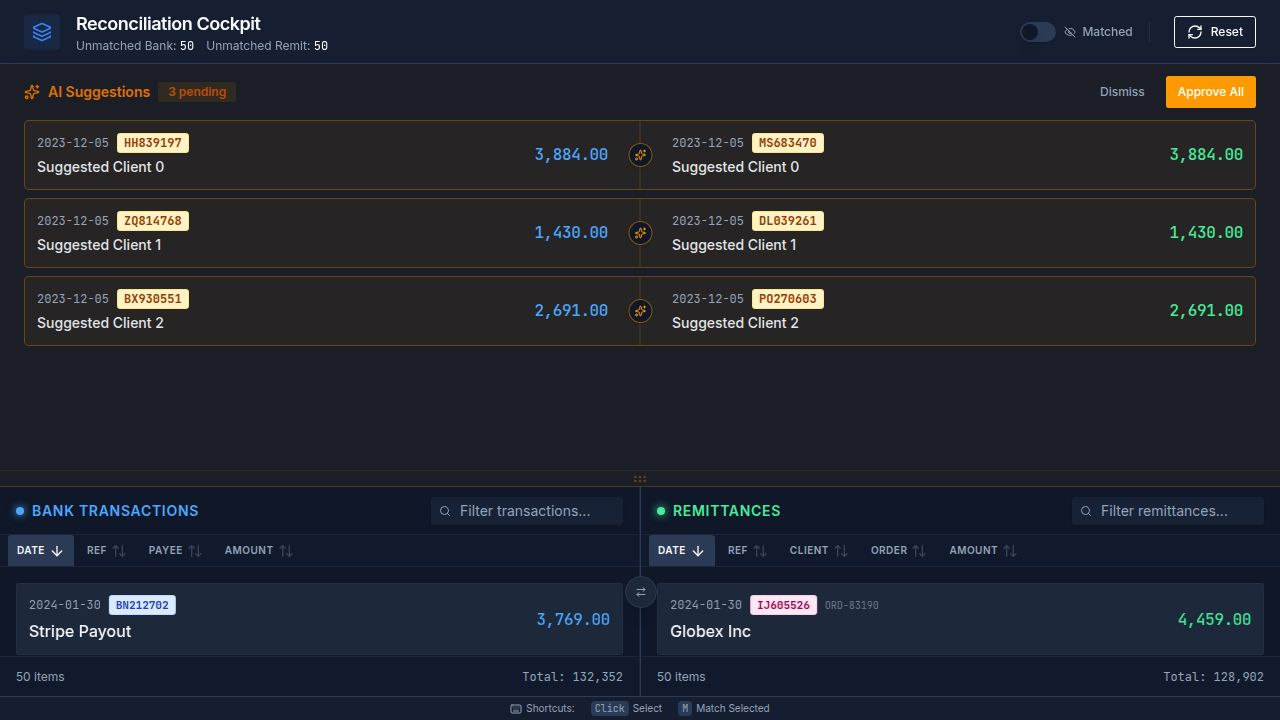
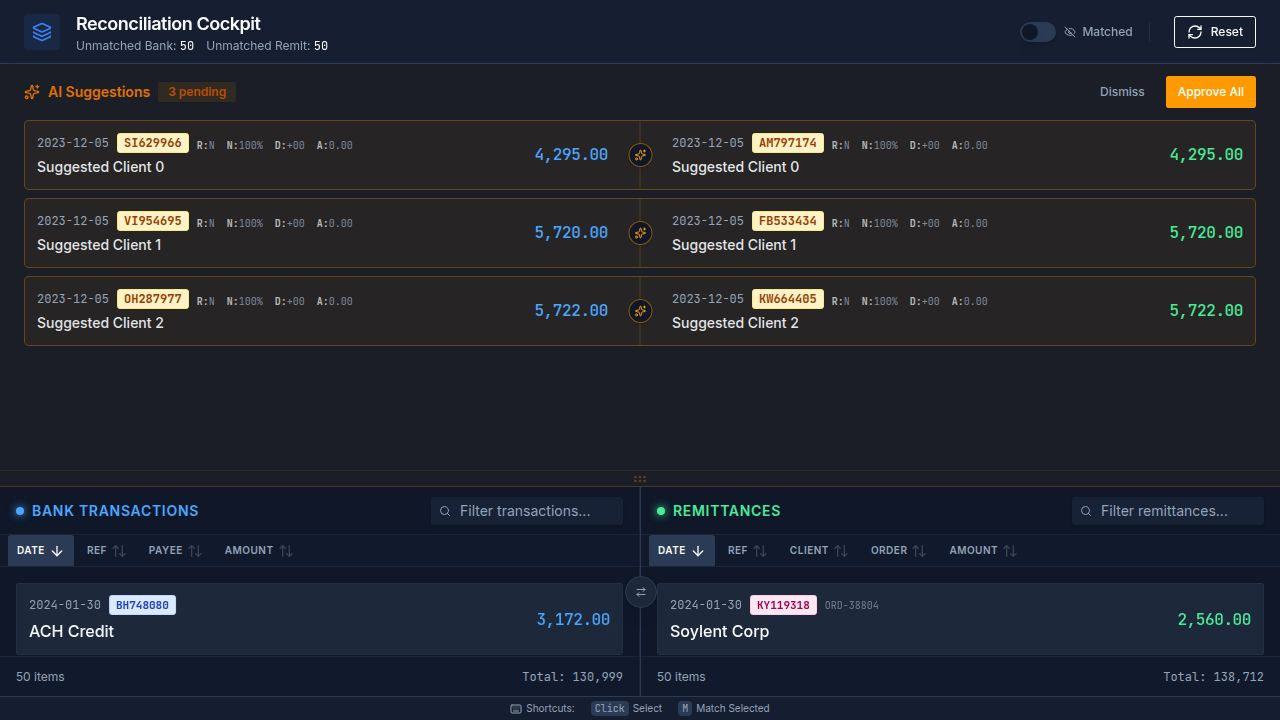
Add new match statistics to reconciliation view
Implement R, N, D, and A match statistics to display reference match, name similarity, date difference, and amount difference for matched transactions.

Replit-Commit-Author: Agent
Replit-Commit-Session-Id: 1e91d277-44cb-43da-9b18-7fe6fb440bab
Replit-Commit-Checkpoint-Type: full_checkpoint
Replit-Commit-Event-Id: 4877521b-5ac8-426d-a509-1829518caf28
Replit-Commit-Screenshot-Url: https://storage.googleapis.com/screenshot-production-us-central1/7907d9d1-9fe0-46c0-b82b-14bfc55603c3/1e91d277-44cb-43da-9b18-7fe6fb440bab/XfFrscf
Replit-Helium-Checkpoint-Created: true

diff --git a/client/src/pages/reconciliation.tsx b/client/src/pages/reconciliation.tsx
@@ -18,6 +18,52 @@ type BankSortField = 'date' | 'reference' | 'payee' | 'amount';
 type RemitSortField = 'date' | 'reference' | 'client' | 'amount' | 'orderNumber';
 type SortOrder = 'asc' | 'desc';
 
+// --- Helpers ---
+
+const calculateMatchStats = (bank: BankTransaction, remit: Remittance) => {
+  // R: Reference match indicator (Y/N)
+  const isReferenceMatch = bank.reference.toLowerCase() === remit.reference.toLowerCase() || 
+                           bank.reference.toLowerCase().includes(remit.reference.toLowerCase()) || 
+                           remit.reference.toLowerCase().includes(bank.reference.toLowerCase());
+  const rValue = isReferenceMatch ? 'Y' : 'N';
+
+  // N: Name similarity score (0-100%)
+  // Simple Jaccard similarity implementation for demo
+  const s1 = bank.payee.toLowerCase();
+  const s2 = remit.client.toLowerCase();
+  const set1 = new Set(s1.split(''));
+  const set2 = new Set(s2.split(''));
+  const intersection = new Set(Array.from(set1).filter(x => set2.has(x)));
+  const union = new Set([...Array.from(set1), ...Array.from(set2)]);
+  const similarity = union.size === 0 ? 0 : intersection.size / union.size;
+  const nValue = `${Math.round(similarity * 100)}%`;
+
+  // D: Date difference
+  const d1 = new Date(bank.date);
+  const d2 = new Date(remit.date);
+  const diffTime = d1.getTime() - d2.getTime();
+  const diffDays = Math.ceil(diffTime / (1000 * 60 * 60 * 24));
+  // Format to 2 digits with sign
+  const dValue = diffDays >= 0 
+    ? `+${diffDays.toString().padStart(2, '0')}` 
+    : `-${Math.abs(diffDays).toString().padStart(2, '0')}`;
+
+  // A: Amount difference
+  const diffAmount = bank.amount - remit.amount;
+  const aValue = diffAmount.toLocaleString('en-US', { minimumFractionDigits: 2, maximumFractionDigits: 2 });
+  
+  return { rValue, nValue, dValue, aValue: diffAmount > 0 ? `+${aValue}` : aValue };
+};
+
+const MatchStatsDisplay = ({ stats }: { stats: { rValue: string, nValue: string, dValue: string, aValue: string } }) => (
+  <div className="flex items-center gap-3 text-[10px] font-mono text-muted-foreground/80 mt-1 select-text">
+    <span title="Reference Match"><strong className="text-foreground/70">R:</strong>{stats.rValue}</span>
+    <span title="Name Similarity"><strong className="text-foreground/70">N:</strong>{stats.nValue}</span>
+    <span title="Date Difference"><strong className="text-foreground/70">D:</strong>{stats.dValue}</span>
+    <span title="Amount Difference"><strong className="text-foreground/70">A:</strong>{stats.aValue}</span>
+  </div>
+);
+
 // --- Components ---
 
 const SortButton = ({ 
@@ -62,6 +108,8 @@ const SuggestedMatchRow = ({
   onApprove: () => void,
   onReject: () => void
 }) => {
+  const stats = calculateMatchStats(bankTransaction, remittance);
+
   return (
     <motion.div 
       layout
@@ -80,11 +128,12 @@ const SuggestedMatchRow = ({
       {/* Left: Bank Transaction */}
       <div className="flex-1 p-3 pr-8 flex items-center justify-between">
          <div className="flex flex-col gap-1">
-            <div className="flex items-center gap-2">
+            <div className="flex items-center gap-2 flex-wrap">
                <span className="text-xs font-mono text-muted-foreground">{bankTransaction.date}</span>
                <Badge variant="secondary" className="text-xs h-5 px-1.5 font-mono font-bold bg-amber-100 text-amber-800 dark:bg-amber-900/30 dark:text-amber-300 border border-amber-200 dark:border-amber-800">
                  {bankTransaction.reference}
                </Badge>
+               <MatchStatsDisplay stats={stats} />
             </div>
             <span className="text-sm font-medium opacity-90">{bankTransaction.payee}</span>
          </div>
@@ -94,11 +143,12 @@ const SuggestedMatchRow = ({
       {/* Right: Remittance */}
       <div className="flex-1 p-3 pl-8 flex items-center justify-between">
          <div className="flex flex-col gap-1">
-            <div className="flex items-center gap-2">
+            <div className="flex items-center gap-2 flex-wrap">
                <span className="text-xs font-mono text-muted-foreground">{remittance.date}</span>
                <Badge variant="secondary" className="text-xs h-5 px-1.5 font-mono font-bold bg-amber-100 text-amber-800 dark:bg-amber-900/30 dark:text-amber-300 border border-amber-200 dark:border-amber-800">
                  {remittance.reference}
                </Badge>
+               <MatchStatsDisplay stats={stats} />
             </div>
             <span className="text-sm font-medium opacity-90">{remittance.client}</span>
          </div>
@@ -186,36 +236,47 @@ const MatchedGroupRow = ({
 
       {/* Left Side: Bank Transactions Stack */}
       <div className="flex-1 min-w-[400px] border-r border-border/40 p-2 space-y-2">
-        {bankTransactions.map(t => (
-          <div key={t.id} className="flex items-center justify-between p-3 rounded-md bg-muted/20 border border-transparent opacity-70 group-hover:opacity-100 transition-opacity h-[72px]">
-             <div className="flex flex-col gap-1">
-                <div className="flex items-center gap-2">
-                  <CheckCircle2 className="w-3 h-3 text-match" />
-                  <span className="text-xs font-mono text-muted-foreground">{t.date}</span>
-                  <Badge variant="secondary" className="text-[11px] h-5 px-1.5 font-mono font-semibold bg-blue-50/50 text-blue-700/70 border-blue-200/50 dark:bg-blue-900/10 dark:text-blue-400/70 dark:border-blue-800/50">
-                    {t.reference}
-                  </Badge>
-                </div>
-                <span className="text-sm font-medium text-muted-foreground line-through decoration-muted-foreground/30">
-                  {t.payee}
-                </span>
-             </div>
-             <AmountDisplay amount={t.amount} type="bank" dimmed />
-          </div>
-        ))}
+        {bankTransactions.map(t => {
+           const stats = calculateMatchStats(t, remittance);
+           return (
+            <div key={t.id} className="flex items-center justify-between p-3 rounded-md bg-muted/20 border border-transparent opacity-70 group-hover:opacity-100 transition-opacity h-[72px]">
+               <div className="flex flex-col gap-1">
+                  <div className="flex items-center gap-2 flex-wrap">
+                    <CheckCircle2 className="w-3 h-3 text-match" />
+                    <span className="text-xs font-mono text-muted-foreground">{t.date}</span>
+                    <Badge variant="secondary" className="text-[11px] h-5 px-1.5 font-mono font-semibold bg-blue-50/50 text-blue-700/70 border-blue-200/50 dark:bg-blue-900/10 dark:text-blue-400/70 dark:border-blue-800/50">
+                      {t.reference}
+                    </Badge>
+                    <MatchStatsDisplay stats={stats} />
+                  </div>
+                  <span className="text-sm font-medium text-muted-foreground line-through decoration-muted-foreground/30">
+                    {t.payee}
+                  </span>
+               </div>
+               <AmountDisplay amount={t.amount} type="bank" dimmed />
+            </div>
+           );
+        })}
       </div>
 
       {/* Right Side: Remittance */}
       <div className="flex-1 min-w-[400px] p-2">
         <div className="flex items-center justify-between p-3 rounded-md bg-muted/20 border border-transparent opacity-70 group-hover:opacity-100 transition-opacity h-full">
             <div className="flex flex-col gap-1 w-full">
-              <div className="flex items-center gap-2">
+              <div className="flex items-center gap-2 flex-wrap">
                  <CheckCircle2 className="w-3 h-3 text-match" />
                  <span className="text-xs font-mono text-muted-foreground">{remittance.date}</span>
                  <Badge variant="secondary" className="text-[11px] h-5 px-1.5 font-mono font-semibold bg-pink-50/50 text-pink-700/70 border-pink-200/50 dark:bg-pink-900/10 dark:text-pink-400/70 dark:border-pink-800/50">
                    {remittance.reference}
                  </Badge>
                  <span className="text-[10px] font-mono text-muted-foreground/40">{remittance.orderNumber}</span>
+                 {/* For group view, showing stats on the remittance side is ambiguous if multiple banks match. 
+                     We could average them or just show nothing on the Remittance side since the Bank side shows the details. 
+                     However, request says "On both bank transactions and remittance records".
+                     If 1-to-1 match, easy. If 1-to-many, we can compare Remit to the "Sum of Banks" or each bank?
+                     Let's show stats against the FIRST bank transaction for simplicity in this mockup or the grouped total if we had logic for it.
+                     Let's iterate and show stats against the first one for now as a representative. */}
+                 {bankTransactions.length > 0 && <MatchStatsDisplay stats={calculateMatchStats(bankTransactions[0], remittance)} />}
               </div>
               <div>
                  <span className="text-sm font-medium text-muted-foreground line-through decoration-muted-foreground/30">
@@ -253,11 +314,13 @@ const GAP = 8; // margin-bottom
 const TransactionRow = ({ 
   data, 
   isSelected, 
-  onClick 
+  onClick,
+  matchStats
 }: { 
   data: BankTransaction, 
   isSelected: boolean, 
-  onClick: () => void 
+  onClick: () => void,
+  matchStats?: { rValue: string, nValue: string, dValue: string, aValue: string }
 }) => {
   const isMatched = data.status === 'matched';
   
@@ -278,7 +341,7 @@ const TransactionRow = ({
       )}
     >
       <div className="flex flex-col gap-1">
-        <div className="flex items-center gap-2">
+        <div className="flex items-center gap-2 flex-wrap">
           {isMatched && <CheckCircle2 className="w-3 h-3 text-match" />}
           <span className={cn("text-xs font-mono", isMatched ? "text-muted-foreground/50" : "text-muted-foreground")}>{data.date}</span>
           <Badge variant="secondary" className={cn("text-[11px] h-5 px-1.5 font-mono font-bold border", 
@@ -288,6 +351,7 @@ const TransactionRow = ({
           )}>
             {data.reference}
           </Badge>
+          {matchStats && <MatchStatsDisplay stats={matchStats} />}
         </div>
         <span className={cn("text-base font-medium transition-colors", isMatched ? "text-muted-foreground line-through decoration-muted-foreground/30" : "text-foreground group-hover:text-primary")}>
           {data.payee}
@@ -309,13 +373,15 @@ const RemittanceRow = ({
   isSelected, 
   onClick,
   isMultiMatchTarget,
-  matchCount
+  matchCount,
+  matchStats
 }: { 
   data: Remittance, 
   isSelected: boolean, 
   onClick: () => void,
   isMultiMatchTarget: boolean,
-  matchCount: number
+  matchCount: number,
+  matchStats?: { rValue: string, nValue: string, dValue: string, aValue: string }
 }) => {
   const isMatched = data.status === 'matched';
   const matchedCount = data.matchedBankIds?.length || 1;
@@ -353,7 +419,7 @@ const RemittanceRow = ({
 
       <div className="flex flex-col gap-1">
         {/* Top Line: Date | Reference | Order Number */}
-        <div className="flex items-center gap-2">
+        <div className="flex items-center gap-2 flex-wrap">
            {isMatched && <CheckCircle2 className="w-3 h-3 text-match" />}
            <span className={cn("text-xs font-mono", isMatched ? "text-muted-foreground/50" : "text-muted-foreground")}>{data.date}</span>
            <Badge variant="secondary" className={cn("text-[11px] h-5 px-1.5 font-mono font-bold border", 
@@ -364,6 +430,7 @@ const RemittanceRow = ({
              {data.reference}
            </Badge>
            <span className={cn("text-[10px] font-mono", isMatched ? "text-muted-foreground/40" : "text-muted-foreground/70")}>{data.orderNumber}</span>
+           {matchStats && <MatchStatsDisplay stats={matchStats} />}
         </div>
 
         {/* Bottom Line: Name */}
@@ -825,6 +892,11 @@ export default function ReconciliationPage() {
                       data={t} 
                       isSelected={selectedBankIds.has(t.id)}
                       onClick={() => toggleBankSelection(t.id)}
+                      matchStats={
+                        selectedBankIds.has(t.id) && selectedRemitIds.size > 0
+                        ? calculateMatchStats(t, remittances.find(r => selectedRemitIds.has(r.id))!)
+                        : undefined
+                      }
                     />
                   ))}
                   {filteredBank.length === 0 && (
@@ -888,6 +960,11 @@ export default function ReconciliationPage() {
                       onClick={() => toggleRemitSelection(r.id)}
                       isMultiMatchTarget={selectedRemitIds.has(r.id) && selectedBankIds.size > 1}
                       matchCount={selectedBankIds.size}
+                      matchStats={
+                        selectedRemitIds.has(r.id) && selectedBankIds.size > 0
+                        ? calculateMatchStats(bankTransactions.find(b => selectedBankIds.has(b.id))!, r)
+                        : undefined
+                      }
                     />
                   ))}
                    {filteredRemit.length === 0 && (
